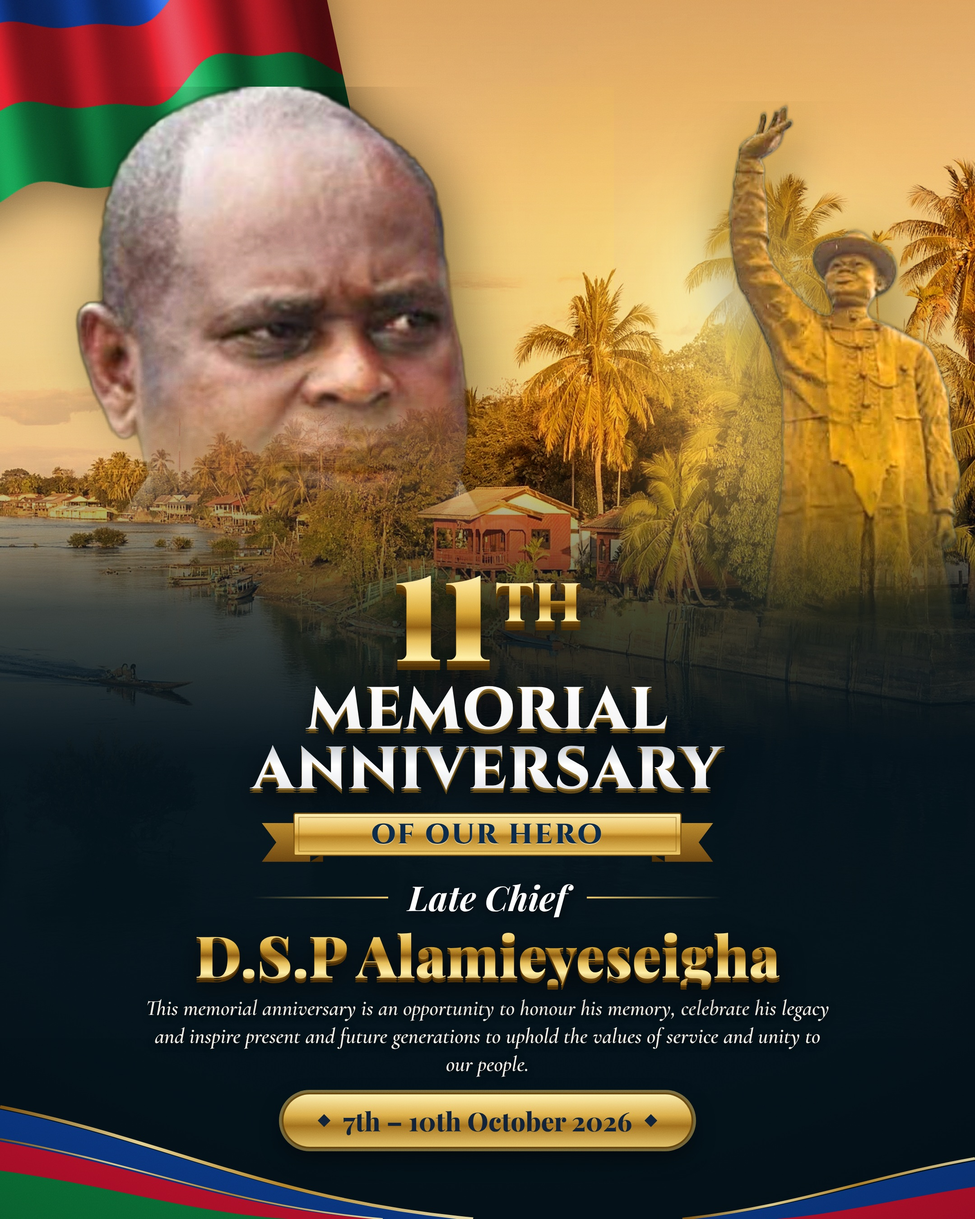
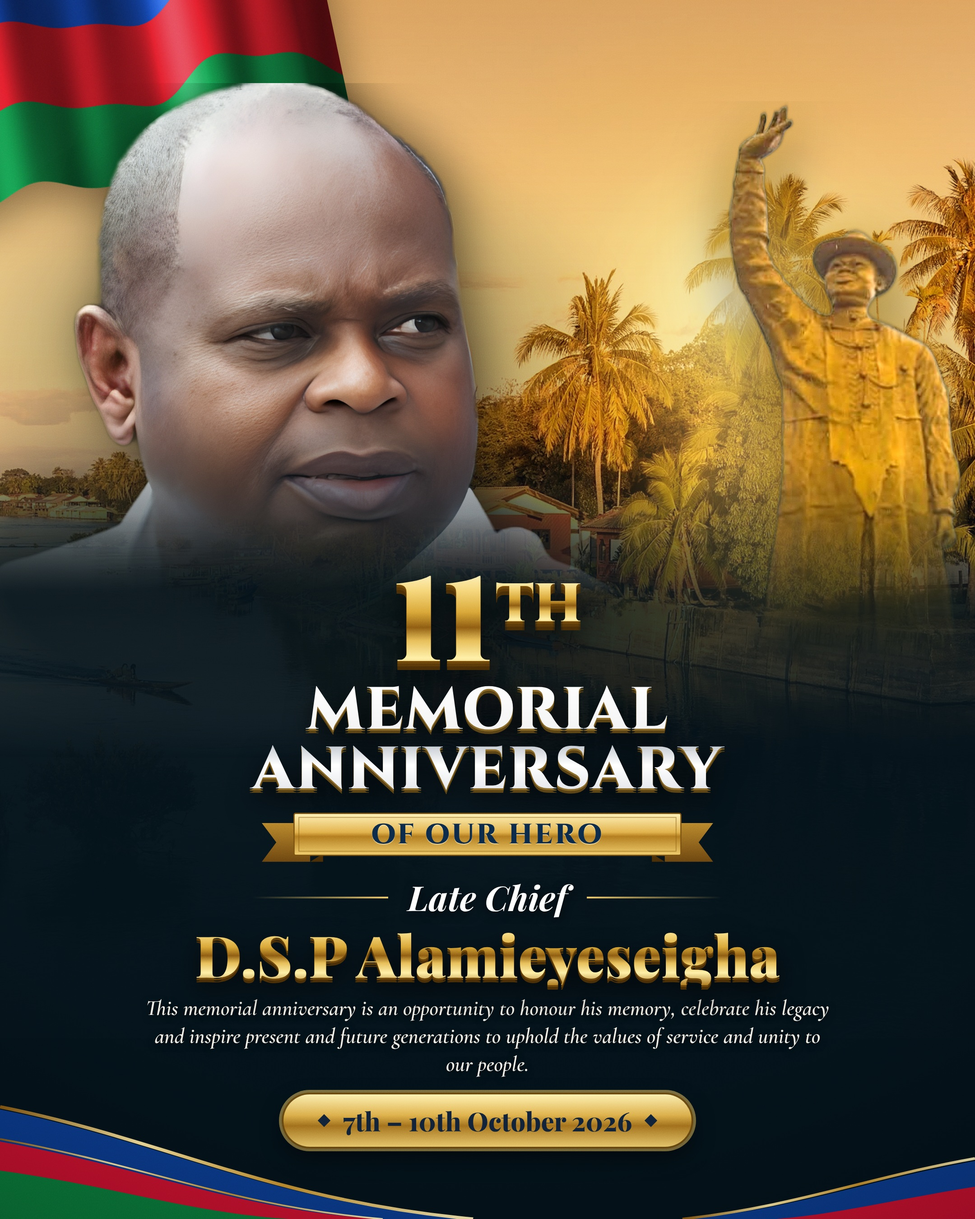
Sharpen portrait and fade it cleanly into the poster
Claude-Session: https://claude.ai/code/session_016prf93qTiMKwy5VAqtTzSm

Changed region(s): [[0.0, 0.0622, 0.6824, 0.56], [0.1551, 0.1867, 0.1861, 0.2178]]

diff --git a/designs/alamieyeseigha-11th-memorial/source/poster.html b/designs/alamieyeseigha-11th-memorial/source/poster.html
@@ -28,9 +28,11 @@ html,body{width:1080px;height:1350px;background:#05141c;overflow:hidden}
 .statue-mask{-webkit-mask-image:linear-gradient(180deg,#000 66%,transparent 92%);mask-image:linear-gradient(180deg,#000 66%,transparent 92%)}
 
 /* portrait */
-.portrait{left:-40px;top:96px;width:720px;
-  -webkit-mask-image:linear-gradient(180deg,#000 58%,rgba(0,0,0,.6) 72%,transparent 90%);mask-image:linear-gradient(180deg,#000 58%,rgba(0,0,0,.6) 72%,transparent 90%);
-  filter:drop-shadow(14px 0 30px rgba(0,0,0,.45)) contrast(1.04) saturate(1.05)}
+.portrait{left:-46px;top:92px;width:740px;
+  -webkit-mask-image:linear-gradient(180deg,#000 84%,transparent 100%);mask-image:linear-gradient(180deg,#000 84%,transparent 100%);
+  filter:drop-shadow(10px 0 26px rgba(0,0,0,.55)) contrast(1.05) brightness(1.03)}
+.pshade{left:-60px;top:450px;width:860px;height:390px;background:linear-gradient(180deg,rgba(4,18,26,0) 0%,rgba(4,18,26,.5) 30%,rgba(4,18,26,.85) 52%,rgba(4,18,26,.6) 75%,rgba(4,18,26,0) 100%);-webkit-mask-image:radial-gradient(60% 70% at 40% 45%,#000 55%,transparent 100%);mask-image:radial-gradient(60% 70% at 40% 45%,#000 55%,transparent 100%)}
+.halo{left:-60px;top:120px;width:760px;height:600px;background:radial-gradient(closest-side,rgba(3,14,20,.55),transparent);filter:blur(20px)}
 .rim{left:-40px;top:96px;width:720px;height:560px;background:radial-gradient(400px 500px at 760px 200px,rgba(255,190,90,.35),transparent 70%);mix-blend-mode:soft-light;pointer-events:none}
 
 /* bottom swoosh in flag colours */
@@ -69,9 +71,10 @@ html,body{width:1080px;height:1350px;background:#05141c;overflow:hidden}
   <div class="abs statue-glow"></div>
   <img class="abs statue statue-mask" src="statue.png">
   <img class="abs flag" src="flag.png">
-  <img class="abs portrait" src="portrait.png">
-  <div class="abs rim"></div>
   <div class="abs shade"></div>
+  <div class="abs halo"></div>
+  <img class="abs portrait" src="portrait.png">
+  <div class="abs pshade"></div>
 
   <svg class="abs swoosh" viewBox="0 0 1080 420" style="height:300px" preserveAspectRatio="none">
     <defs>

diff --git a/designs/alamieyeseigha-11th-memorial/README.md b/designs/alamieyeseigha-11th-memorial/README.md
@@ -3,7 +3,7 @@
 Final poster: `alamieyeseigha-11th-memorial-1080x1350.jpg` (social) and `-2160x2700.jpg` (print/hi-res).
 
 ## Layers (`source/`)
-- `portrait.png` — press photo (ICIR Nigeria, 2015), 4x EDSR upscale, background removed
+- `portrait.png` — press photo (ICIR Nigeria, 2015): Real-ESRGAN x4 upscale, face restored with CodeFormer (fidelity 0.7, blended 80/20 with the original), background removed
 - `statue.png` — statue photo supplied by the client, background and plinth removed
 - `bg.jpg` — "Mekong bank dwellings at golden hour, Don Khon" (Wikimedia Commons, free licence), colour-graded warm
 - `flag.png` — generated waving flag in Ijaw colours (blue / red / green)
